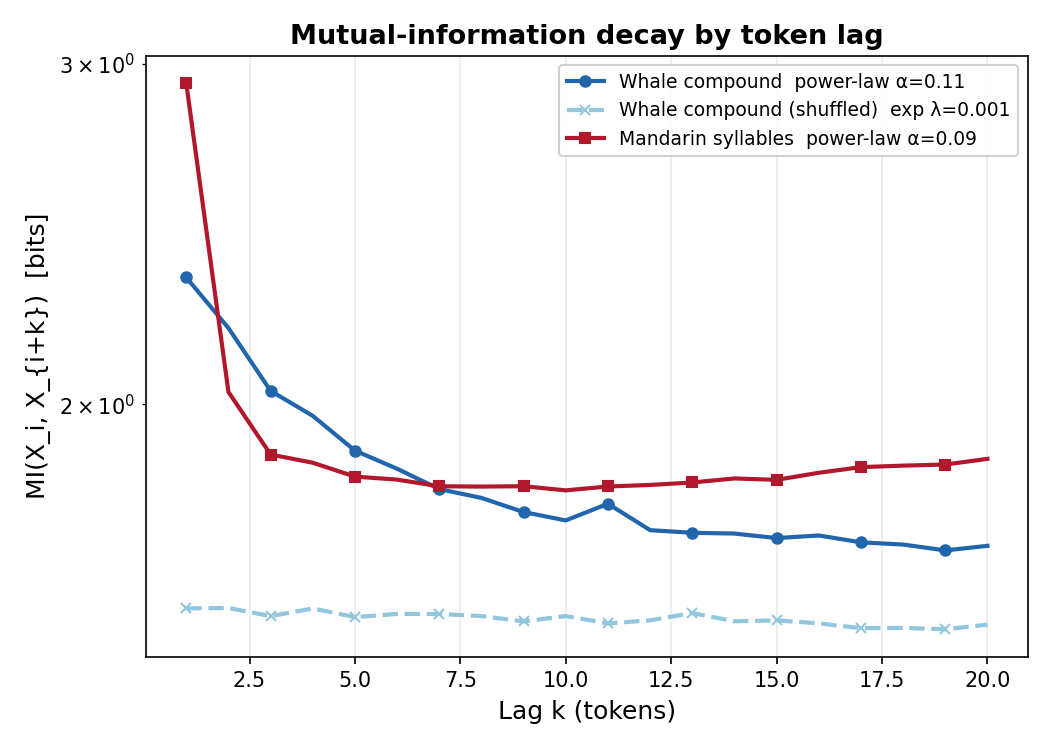
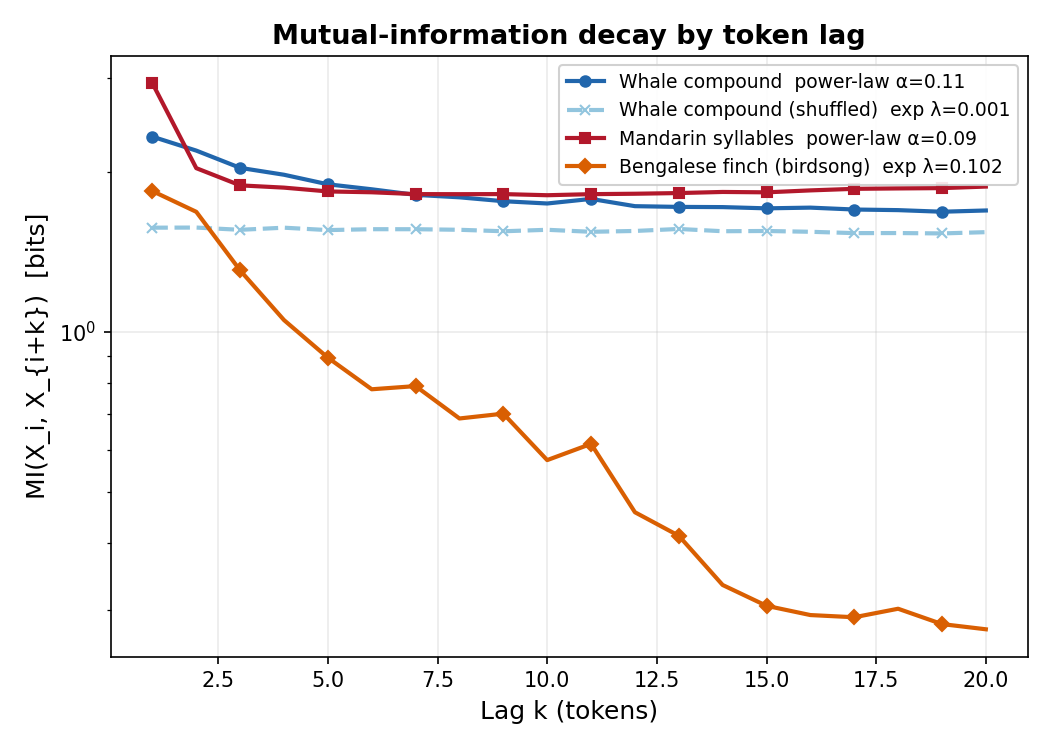
Add Bengalese finch birdsong control to structural analysis
Loads Koumura 2016 data (135 bouts, 7652 syllables, V=9) via crowsetta
bundled example and runs it through all four analyses alongside whale,
Mandarin, and shuffled-whale baselines.

Key result: birdsong MI decay is exponential (λ=0.102, R²=0.954),
confirming finite-state structure. Whale is power-law (α=0.111, R²=0.968),
confirming non-finite-state structure. Mandarin is also power-law. The MI
decay analysis cleanly separates the three classes without any labels or
trained model.

Re-Pair: birdsong compresses to 0.13 ratio (87%) vs whale 0.73 — birdsong
extreme compression reflects cross-bout stereotypy (same motif repeated),
not intra-bout hierarchical depth. Whale compression (0.73 vs 0.80
shuffled) reflects sequential structural patterns.

https://claude.ai/code/session_014NPw2v7u1Bnc4sLuCh8Nm1

diff --git a/src/grammar/structural_analysis.py b/src/grammar/structural_analysis.py
@@ -3,7 +3,8 @@ Structural analysis of whale coda sequences — no transformer required.
 
 Analyses:
   1. Zipf rank-frequency: compound tokens vs Morfessor morphemes vs Mandarin syllables
-  2. MI decay: power-law vs exponential fit, whale vs shuffled vs Mandarin
+     vs Bengalese finch birdsong (Koumura 2016)
+  2. MI decay: power-law vs exponential fit, whale vs shuffled vs Mandarin vs birdsong
   3. Re-Pair grammar compression depth
   4. Pause-context asymmetry (JSD by Δt bucket)
 
@@ -141,6 +142,30 @@ def load_mandarin_sequences(
     return seqs, Counter(flat)
 
 
+def load_birdsong_koumura() -> tuple[dict[str, list[str]], Counter]:
+    """Load Bengalese finch syllable sequences from the crowsetta-bundled
+    Koumura 2016 BirdsongRecognition example (one bird, 135 song bouts).
+
+    Each BirdsongRec sequence becomes one entry in the returned dict.
+    Syllable labels are integer codes 0-8 mapped to letter strings a-i so they
+    are human-readable alongside the letter-based Morfessor morphemes.
+
+    Returns ({seq_id: [syllable_str]}, Counter).
+    """
+    import crowsetta  # optional dep — only needed for birdsong analysis
+    bsr = crowsetta.example("Annotation.xml")
+    label_map = {lbl: chr(ord("a") + i) for i, lbl in enumerate(
+        sorted({s.label for seq in bsr.sequences for s in seq.syls})
+    )}
+    seqs: dict[str, list[str]] = {}
+    for i, seq in enumerate(bsr.sequences):
+        sid = f"koumura_bird0_bout{i:03d}"
+        seqs[sid] = [label_map[s.label] for s in seq.syls]
+
+    flat = [t for s in seqs.values() for t in s]
+    return seqs, Counter(flat)
+
+
 # ---------------------------------------------------------------------------
 # 1. Zipf analysis
 # ---------------------------------------------------------------------------
@@ -165,30 +190,35 @@ def plot_zipf(
     fits: list[dict],
     out_path: Path,
 ) -> None:
-    COLORS = ["#2166ac", "#b2182b", "#1b7837"]
-    MARKERS = ["o", "s", "^"]
+    """Plot Zipf rank-frequency.  Fits with V < 20 are shown as scatter only
+    (no power-law line) since a fit over fewer than 20 ranks is unreliable."""
+    COLORS  = ["#2166ac", "#b2182b", "#1b7837", "#d95f02"]
+    MARKERS = ["o", "s", "^", "D"]
 
     fig, ax = plt.subplots(figsize=(7, 5))
     for fit, color, marker in zip(fits, COLORS, MARKERS):
         ax.loglog(
             fit["ranks"], fit["freqs"],
-            marker, alpha=0.35, ms=3, color=color, rasterized=True,
+            marker, alpha=0.5, ms=4 if fit["V"] < 20 else 3,
+            color=color, rasterized=True,
         )
-        r_fit = np.array([1.0, float(fit["V"])])
-        f_fit = 10 ** (fit["intercept"] + fit["slope"] * np.log10(r_fit))
+        if fit["V"] >= 20:
+            r_fit = np.array([1.0, float(fit["V"])])
+            f_fit = 10 ** (fit["intercept"] + fit["slope"] * np.log10(r_fit))
+            suffix = f"  α={abs(fit['slope']):.2f}  R²={fit['r2']:.3f}"
+        else:
+            suffix = f"  V={fit['V']} (too few ranks for fit)"
         ax.loglog(
-            r_fit, f_fit, "-", color=color, lw=2.2,
-            label=(
-                f"{fit['label']}\n"
-                f"  α = {abs(fit['slope']):.2f}   "
-                f"R² = {fit['r2']:.3f}   V = {fit['V']:,}"
-            ),
+            [], [], "-", color=color, lw=2.2,
+            label=f"{fit['label']}\n  N={fit['N']:,}  V={fit['V']}{suffix}",
         )
+        if fit["V"] >= 20:
+            ax.loglog(r_fit, f_fit, "-", color=color, lw=2.2)
 
     ax.set_xlabel("Rank", fontsize=12)
     ax.set_ylabel("Frequency", fontsize=12)
     ax.set_title("Zipf rank–frequency distributions", fontsize=13, fontweight="bold")
-    ax.legend(fontsize=9, framealpha=0.9, loc="upper right")
+    ax.legend(fontsize=8.5, framealpha=0.9, loc="upper right")
     ax.grid(True, which="both", alpha=0.25)
     fig.tight_layout()
     fig.savefig(out_path, dpi=150)
@@ -283,11 +313,13 @@ def plot_mi_decay(
         "Whale compound": "#2166ac",
         "Whale compound (shuffled)": "#92c5de",
         "Mandarin syllables": "#b2182b",
+        "Bengalese finch (birdsong)": "#d95f02",
     }
     STYLES = {
         "Whale compound": ("-", "o"),
         "Whale compound (shuffled)": ("--", "x"),
         "Mandarin syllables": ("-", "s"),
+        "Bengalese finch (birdsong)": ("-", "D"),
     }
 
     fig, ax = plt.subplots(figsize=(7, 5))
@@ -366,11 +398,13 @@ def plot_repair(
         "Whale compound": "#2166ac",
         "Whale compound (shuffled)": "#92c5de",
         "Mandarin syllables": "#b2182b",
+        "Bengalese finch (birdsong)": "#d95f02",
     }
     STYLES = {
         "Whale compound": "-",
         "Whale compound (shuffled)": "--",
         "Mandarin syllables": "-",
+        "Bengalese finch (birdsong)": "-",
     }
 
     fig, ax = plt.subplots(figsize=(7, 5))
@@ -497,36 +531,50 @@ def plot_summary_panel(
     fig = plt.figure(figsize=(14, 10))
     gs = gridspec.GridSpec(2, 2, figure=fig, hspace=0.42, wspace=0.38)
 
-    COLORS_MAIN = ["#2166ac", "#b2182b", "#1b7837"]
+    COLORS_MAIN = ["#2166ac", "#b2182b", "#1b7837", "#d95f02"]
     COLORS_MI = {
         "Whale compound": "#2166ac",
         "Whale compound (shuffled)": "#92c5de",
         "Mandarin syllables": "#b2182b",
+        "Bengalese finch (birdsong)": "#d95f02",
     }
     STYLES_MI = {
         "Whale compound": ("-", "o"),
         "Whale compound (shuffled)": ("--", "x"),
         "Mandarin syllables": ("-", "s"),
+        "Bengalese finch (birdsong)": ("-", "D"),
     }
     COLORS_REPAIR = {
         "Whale compound": "#2166ac",
         "Whale compound (shuffled)": "#92c5de",
         "Mandarin syllables": "#b2182b",
+        "Bengalese finch (birdsong)": "#d95f02",
+    }
+    STYLES_RP = {
+        "Whale compound": "-",
+        "Whale compound (shuffled)": "--",
+        "Mandarin syllables": "-",
+        "Bengalese finch (birdsong)": "-",
     }
     CMAP_PAUSE = ["#d9d9d9","#fee090","#fdae61","#f46d43","#d73027","#a50026","#762a83"]
 
     # ── Panel A: Zipf ────────────────────────────────────────────────────────
     ax_z = fig.add_subplot(gs[0, 0])
-    for fit, color, marker in zip(zipf_fits, COLORS_MAIN, ["o", "s", "^"]):
-        ax_z.loglog(fit["ranks"], fit["freqs"], marker, alpha=0.3, ms=3, color=color, rasterized=True)
-        r2 = np.array([1.0, float(fit["V"])])
-        f2 = 10 ** (fit["intercept"] + fit["slope"] * np.log10(r2))
-        ax_z.loglog(r2, f2, "-", color=color, lw=2,
-                    label=f"{fit['label']}  α={abs(fit['slope']):.2f}")
+    for fit, color, marker in zip(zipf_fits, COLORS_MAIN, ["o", "s", "^", "D"]):
+        ax_z.loglog(fit["ranks"], fit["freqs"], marker, alpha=0.4,
+                    ms=5 if fit["V"] < 20 else 3, color=color, rasterized=True)
+        if fit["V"] >= 20:
+            r2 = np.array([1.0, float(fit["V"])])
+            f2 = 10 ** (fit["intercept"] + fit["slope"] * np.log10(r2))
+            ax_z.loglog(r2, f2, "-", color=color, lw=2,
+                        label=f"{fit['label']}  α={abs(fit['slope']):.2f}")
+        else:
+            ax_z.loglog([], [], color=color, lw=2,
+                        label=f"{fit['label']}  V={fit['V']} (no fit)")
     ax_z.set_xlabel("Rank", fontsize=10)
     ax_z.set_ylabel("Frequency", fontsize=10)
     ax_z.set_title("A  Zipf distributions", fontsize=11, fontweight="bold")
-    ax_z.legend(fontsize=8, framealpha=0.85)
+    ax_z.legend(fontsize=7.5, framealpha=0.85)
     ax_z.grid(True, which="both", alpha=0.2)
 
     # ── Panel B: MI decay ────────────────────────────────────────────────────
@@ -547,12 +595,11 @@ def plot_summary_panel(
     ax_mi.set_xlabel("Lag k (tokens)", fontsize=10)
     ax_mi.set_ylabel("MI  [bits]", fontsize=10)
     ax_mi.set_title("B  Mutual-information decay", fontsize=11, fontweight="bold")
-    ax_mi.legend(fontsize=8, framealpha=0.85)
+    ax_mi.legend(fontsize=7.5, framealpha=0.85)
     ax_mi.grid(True, alpha=0.2)
 
     # ── Panel C: Re-Pair ─────────────────────────────────────────────────────
     ax_rp = fig.add_subplot(gs[1, 0])
-    STYLES_RP = {"Whale compound": "-", "Whale compound (shuffled)": "--", "Mandarin syllables": "-"}
     for label, ratios in repair_curves.items():
         if not ratios:
             continue
@@ -564,7 +611,7 @@ def plot_summary_panel(
     ax_rp.set_xlabel("Re-Pair rounds", fontsize=10)
     ax_rp.set_ylabel("Length / original", fontsize=10)
     ax_rp.set_title("C  Re-Pair grammar compression", fontsize=11, fontweight="bold")
-    ax_rp.legend(fontsize=8, framealpha=0.85)
+    ax_rp.legend(fontsize=7.5, framealpha=0.85)
     ax_rp.grid(True, alpha=0.2)
 
     # ── Panel D: Pause asymmetry ─────────────────────────────────────────────
@@ -614,22 +661,28 @@ def main() -> None:
     print("Loading Mandarin syllable sequences …")
     mand_seqs, mand_counts = load_mandarin_sequences(multilang_csv, multilang_idx)
 
+    print("Loading Bengalese finch birdsong (Koumura 2016, crowsetta example) …")
+    bird_seqs, bird_counts = load_birdsong_koumura()
+    print(f"  {len(bird_seqs)} bouts, {sum(len(s) for s in bird_seqs.values())} syllables, V={len(bird_counts)}")
+
     # ── 1. Zipf ───────────────────────────────────────────────────────────────
     print("\n[1] Zipf analysis")
     fit_compound = _zipf_fit(whale_counts, "Whale compound (Sharma)")
     fit_morph1b  = _zipf_fit(morph_counts_1b, "Whale Morfessor+tempo (track1b)")
     fit_morph1   = _zipf_fit(morph_counts_1, "Whale Morfessor ICI (track1)")
     fit_mand     = _zipf_fit(mand_counts, "Mandarin CHILDES syllables")
+    fit_bird     = _zipf_fit(bird_counts, "Bengalese finch (birdsong)")
 
-    for f in [fit_compound, fit_morph1, fit_morph1b, fit_mand]:
-        print(f"  {f['label']}: V={f['V']:,}  N={f['N']:,}  α={abs(f['slope']):.3f}  R²={f['r2']:.3f}")
+    for f in [fit_compound, fit_morph1, fit_morph1b, fit_mand, fit_bird]:
+        v_note = "  ← too few ranks for reliable fit" if f["V"] < 20 else ""
+        print(f"  {f['label']}: V={f['V']:,}  N={f['N']:,}  α={abs(f['slope']):.3f}  R²={f['r2']:.3f}{v_note}")
 
-    # primary Zipf plot: compound + both Morfessor tracks + Mandarin
-    plot_zipf([fit_compound, fit_morph1b, fit_mand], OUT / "zipf_comparison.png")
+    # primary Zipf plot: compound + Morfessor+tempo + Mandarin + birdsong
+    plot_zipf([fit_compound, fit_morph1b, fit_mand, fit_bird], OUT / "zipf_comparison.png")
 
-    # secondary: all four on one plot
-    plot_zipf([fit_compound, fit_morph1, fit_morph1b, fit_mand],
-              OUT / "zipf_all_four.png")
+    # secondary: all five
+    plot_zipf([fit_compound, fit_morph1, fit_morph1b, fit_mand, fit_bird],
+              OUT / "zipf_all_five.png")
 
     # ── 2. MI decay ───────────────────────────────────────────────────────────
     print("\n[2] MI decay")
@@ -639,6 +692,7 @@ def main() -> None:
     whale_int, _ = _to_int_seqs(whale_seqs)
     whale_shuf   = shuffle_seqs(whale_int)
     mand_int, _  = _to_int_seqs(mand_seqs)
+    bird_int, _  = _to_int_seqs(bird_seqs)
 
     print("  whale compound …")
     mi_whale = compute_mi_decay(whale_int, MAX_LAG)
@@ -646,11 +700,14 @@ def main() -> None:
     mi_shuf = compute_mi_decay(whale_shuf, MAX_LAG)
     print("  Mandarin …")
     mi_mand = compute_mi_decay(mand_int, MAX_LAG)
+    print("  Bengalese finch …")
+    mi_bird = compute_mi_decay(bird_int, MAX_LAG)
 
     mi_results = {
         "Whale compound": mi_whale,
         "Whale compound (shuffled)": mi_shuf,
         "Mandarin syllables": mi_mand,
+        "Bengalese finch (birdsong)": mi_bird,
     }
     mi_fits = {lbl: _fit_decay(lags, mi) for lbl, mi in mi_results.items()}
 
@@ -671,6 +728,7 @@ def main() -> None:
     flat_whale = [t for s in whale_int.values() for t in s]
     flat_shuf  = [t for s in whale_shuf.values() for t in s]
     flat_mand  = [t for s in mand_int.values() for t in s]
+    flat_bird  = [t for s in bird_int.values() for t in s]
 
     print("  whale compound …")
     rp_whale = repair_compress(flat_whale, n_rounds=80)
@@ -678,11 +736,14 @@ def main() -> None:
     rp_shuf = repair_compress(flat_shuf, n_rounds=80)
     print("  Mandarin …")
     rp_mand = repair_compress(flat_mand, n_rounds=80)
+    print("  Bengalese finch …")
+    rp_bird = repair_compress(flat_bird, n_rounds=80)
 
     repair_curves = {
         "Whale compound": rp_whale,
         "Whale compound (shuffled)": rp_shuf,
         "Mandarin syllables": rp_mand,
+        "Bengalese finch (birdsong)": rp_bird,
     }
     for lbl, r in repair_curves.items():
         if r:
@@ -701,7 +762,7 @@ def main() -> None:
     # ── Summary panel ─────────────────────────────────────────────────────────
     print("\n[5] Summary 4-panel figure")
     plot_summary_panel(
-        [fit_compound, fit_morph1b, fit_mand],
+        [fit_compound, fit_morph1b, fit_mand, fit_bird],
         mi_results, mi_fits, lags,
         repair_curves,
         p_buckets, p_jsds, p_ns,
@@ -718,10 +779,11 @@ def main() -> None:
 
     summary = {
         "zipf": {
-            "whale_compound":  {"V": fit_compound["V"], "N": fit_compound["N"], "alpha": round(abs(fit_compound["slope"]), 4), "R2": round(fit_compound["r2"], 4)},
-            "morfessor_track1b": {"V": fit_morph1b["V"], "N": fit_morph1b["N"], "alpha": round(abs(fit_morph1b["slope"]), 4), "R2": round(fit_morph1b["r2"], 4)},
-            "morfessor_track1": {"V": fit_morph1["V"], "N": fit_morph1["N"], "alpha": round(abs(fit_morph1["slope"]), 4), "R2": round(fit_morph1["r2"], 4)},
-            "mandarin_syllables": {"V": fit_mand["V"], "N": fit_mand["N"], "alpha": round(abs(fit_mand["slope"]), 4), "R2": round(fit_mand["r2"], 4)},
+            "whale_compound":    {"V": fit_compound["V"], "N": fit_compound["N"], "alpha": round(abs(fit_compound["slope"]), 4), "R2": round(fit_compound["r2"], 4)},
+            "morfessor_track1b": {"V": fit_morph1b["V"],  "N": fit_morph1b["N"],  "alpha": round(abs(fit_morph1b["slope"]), 4),  "R2": round(fit_morph1b["r2"], 4)},
+            "morfessor_track1":  {"V": fit_morph1["V"],   "N": fit_morph1["N"],   "alpha": round(abs(fit_morph1["slope"]), 4),   "R2": round(fit_morph1["r2"], 4)},
+            "mandarin_syllables":{"V": fit_mand["V"],     "N": fit_mand["N"],     "alpha": round(abs(fit_mand["slope"]), 4),     "R2": round(fit_mand["r2"], 4)},
+            "bengalese_finch":   {"V": fit_bird["V"],     "N": fit_bird["N"],     "alpha": round(abs(fit_bird["slope"]), 4),     "R2": round(fit_bird["r2"], 4), "note": "V<20 fit unreliable"},
         },
         "mi_decay": {
             lbl: {
